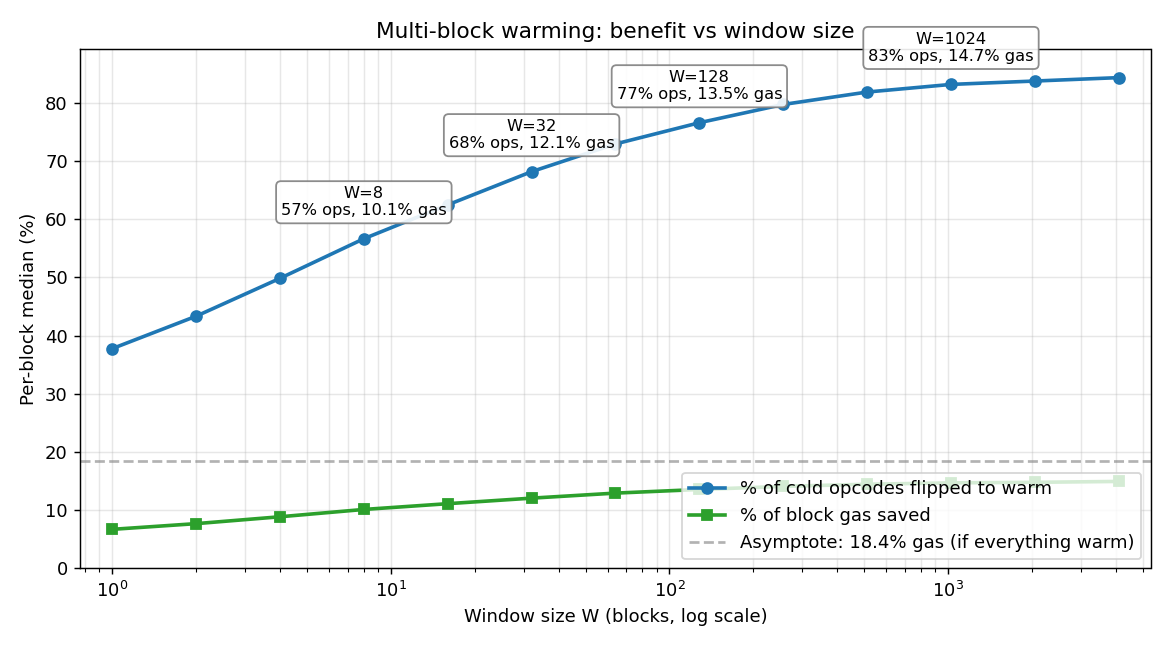
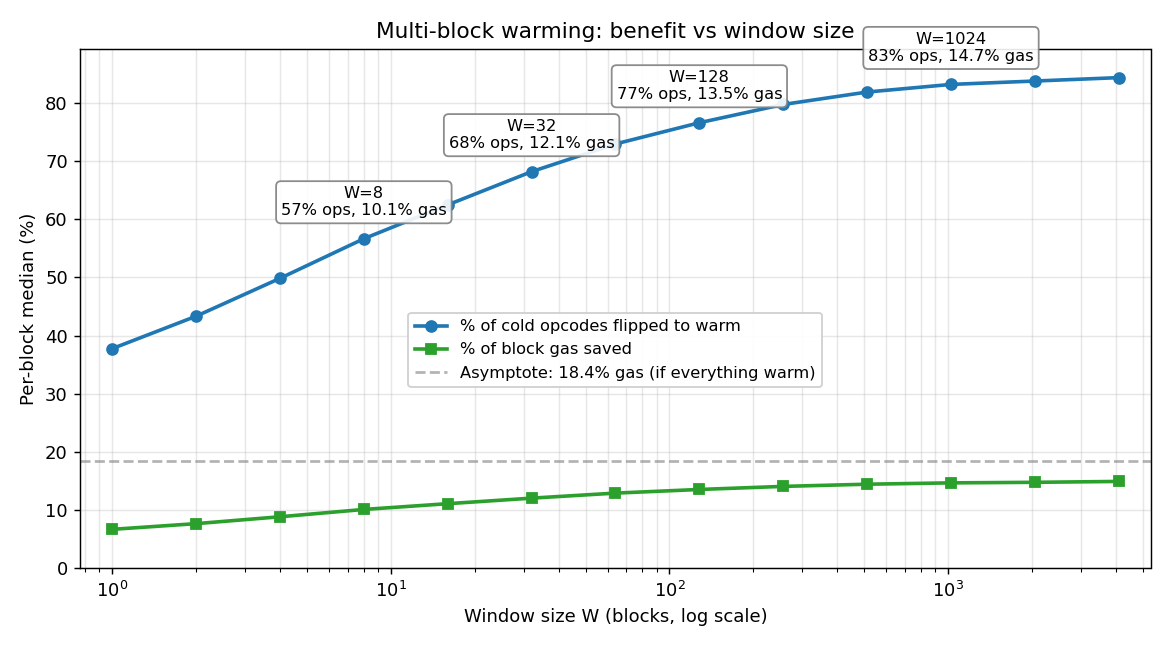
plot_saving_curve: move legend to center of chart in empty band

Changed region(s): [[0.5846, 0.7077, 0.9846, 0.8615], [0.3385, 0.4615, 0.7077, 0.6154]]

diff --git a/plot_window_tradeoff.py b/plot_window_tradeoff.py
@@ -52,9 +52,13 @@ def main(out_dir):
     ax.set_ylabel("Per-block median (%)")
     ax.set_title("Multi-block warming: benefit vs window size")
     ax.grid(True, which="both", alpha=0.3)
-    ax.legend(loc="lower right")
     ax.set_xlim(ws[0] / 1.3, ws[-1] * 1.3)
     ax.set_ylim(0, max(asymptote_gas + 5, max(pct_ops) + 5))
+    # Legend centered both horizontally and vertically (in the empty band between the
+    # green gas-saved line at the bottom and the blue cold-ops line, which by W~50 is
+    # already past 70 %).
+    ax.legend(loc="center", bbox_to_anchor=(0.5, 0.42),
+              framealpha=0.92, fontsize=9)
 
     # Annotate a few key Ws
     for w in (8, 32, 128, 1024):